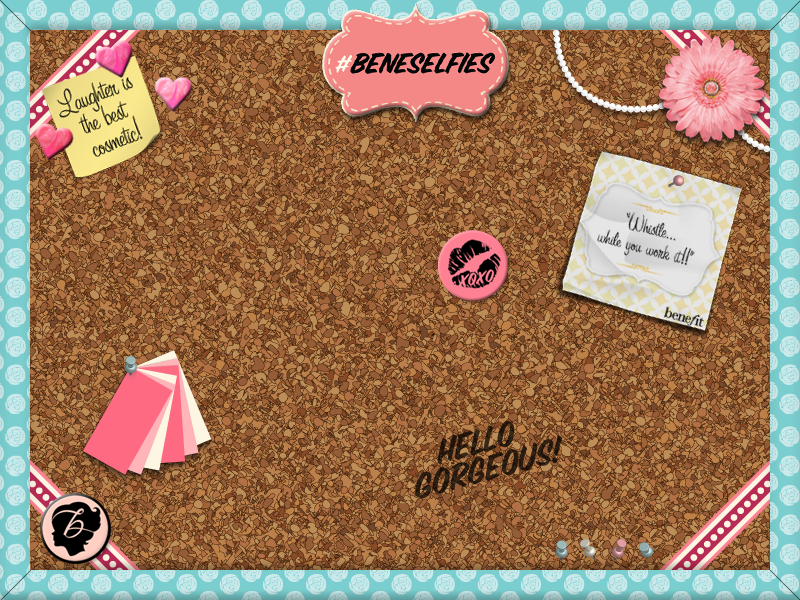
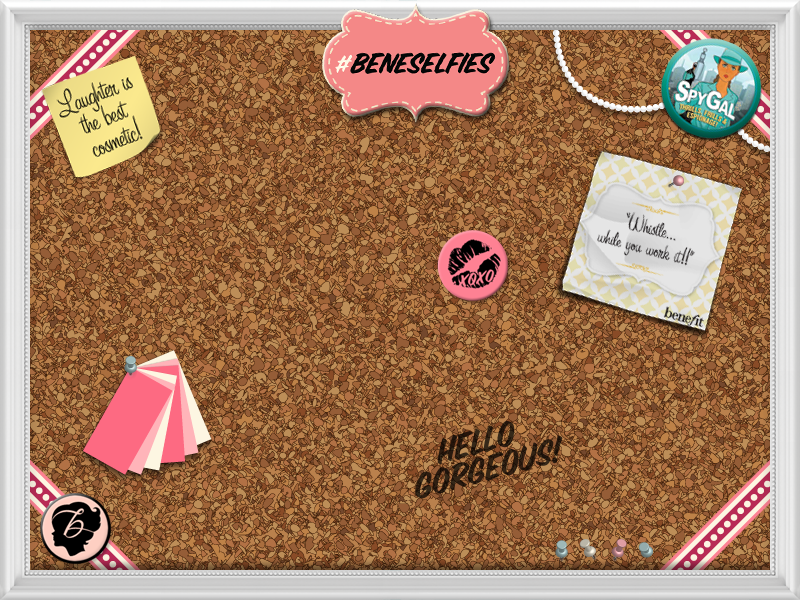
Tags fixed + Update Pin Board + Get More Picture

Changed region(s): [[0.0, 0.0, 1.0, 1.0], [0.1875, 0.12, 0.25, 0.18]]

diff --git a/templates/upload.html b/templates/upload.html
@@ -195,16 +195,6 @@
 <script type="text/javascript">
 var options = [];
 var tags_all = {};
-var tag_offsets = [
-    {"x": 14, "y": 21},
-    {"x": 40, "y": 21},
-    {"x": 66, "y": 21},
-    {"x": 14, "y": 42},
-    {"x": 40, "y": 42},
-    {"x": 66, "y": 42},
-    {"x": 14, "y": 62},
-    {"x": 40, "y": 62}
-];
 var current_tags = [];
 var tags_final = [];
 var dict_for_each_clicked = [];
@@ -321,9 +311,10 @@ $(function () {
             onrendered: function (canvas) {
                 var dataURL = canvas.toDataURL();
                 current_tags = [];
-                $.each($('.hidden_input'), function (index, element) {
-                    if ($(element).val() != '') {
-                        current_tags.push($(element).val().toString() + "," + tag_offsets[index].x.toString() + "," + tag_offsets[index].y.toString());
+                $.each($('#wrap').find('.polaroid'), function (index, element) {
+                    var tag_element = $(element).find('.hidden_input');
+                    if (tag_element && tag_element.length > 0 && $(tag_element).val() != '') {
+                        current_tags.push($(element).val().toString() + "," + tag_positions[index][0].toString() + "," + tag_positions[index][1].toString());
                     }
                 });
                 $.ajax({

diff --git a/static/js/main.js b/static/js/main.js
@@ -6,6 +6,18 @@ var rotateAngles = [-6, 2, -2, 2, 4, -4, 4, -1];
 var selected = [];
 var polaroids = [];
 var pins = [];
+var tag_positions = [
+    [17.50, 40.00],
+    [40.13, 40.17],
+    [61.25, 40.00],
+    [81.88, 40.50],
+    [18.75, 71.00],
+    [40.38, 70.83],
+    [56.00, 70.50],
+    [81.88, 71.00]
+
+
+];
 var newButtons;
 var texts = ["/static/images/Pinboard%20Assets/Text/the-shopaholic.png",
     "/static/images/Pinboard%20Assets/Text/the-comedian.png",
@@ -154,9 +166,6 @@ function focusImage(event) {
         zIndex: $(clicked).css("zIndex")
     };
     var i = parseInt($(clicked).attr('id'));
-    if (images[i]) {
-        images[i].moveUp();
-    }
     pins[i].hide();
     // Fade out non-clicked polaroids.
     $wrap.each(function () {

diff --git a/static/js/selector.js b/static/js/selector.js
@@ -692,7 +692,7 @@ var CSPhotoSelector = (function (module, $) {
             });
         }
         else {
-            var query1 = "SELECT object_id, caption_tags, images, src, aid, pid FROM photo WHERE pid in (SELECT pid FROM photo_tag WHERE subject = '" + uid + "')";
+            var query1 = "SELECT object_id, caption_tags, images, src, aid, pid FROM photo WHERE (pid in (SELECT pid FROM photo_tag WHERE subject = '" + uid + "') OR owner = '" + uid + "')";
             if ($selected_album && $selected_album != null) {
                 query1 += " AND (album_object_id = " + $selected_album.attr('data-id') + " OR aid = '" + $selected_album.attr('data-id') + "')";
             }
